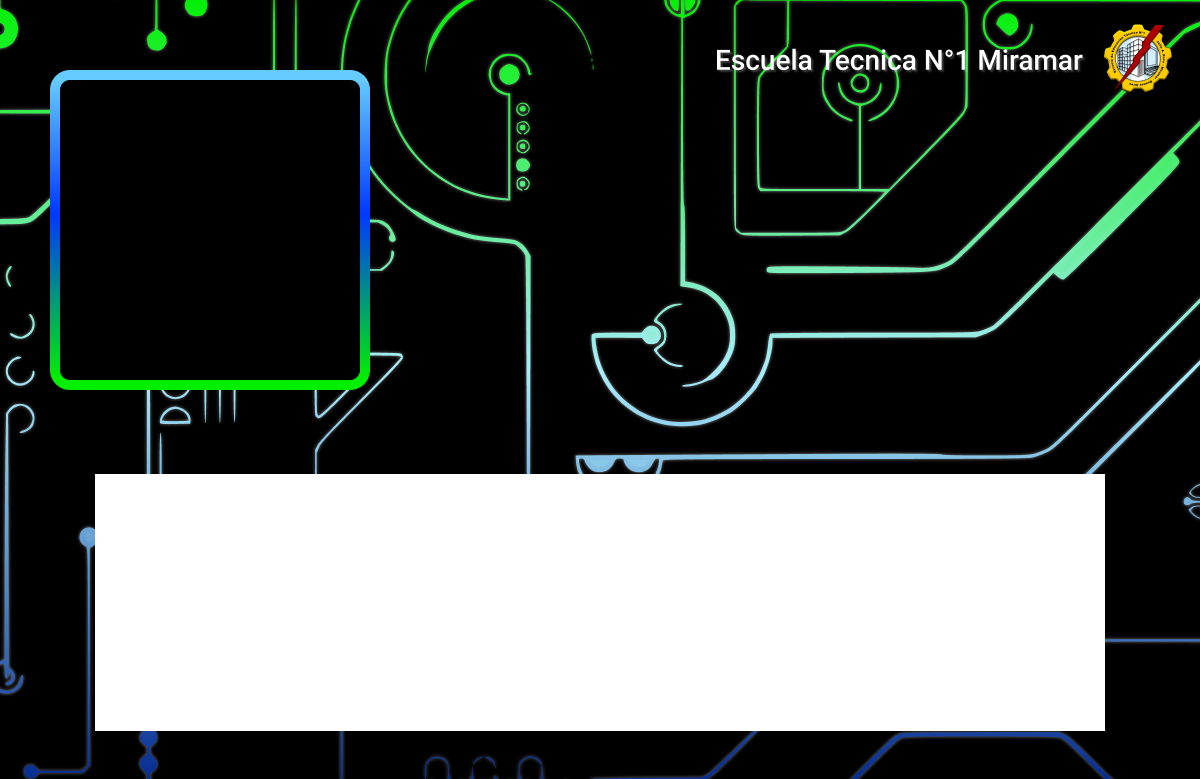
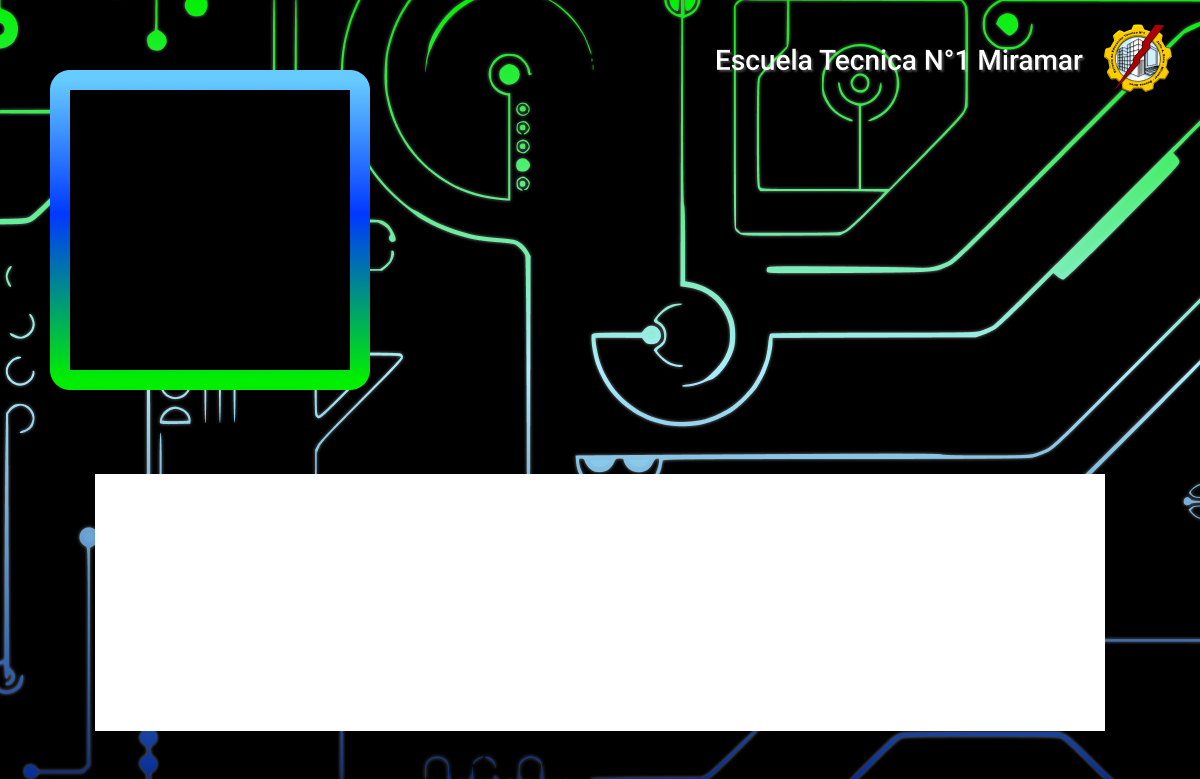
26/07/2022 13:30hs

Changed region(s): [[0.0308, 0.0924, 0.3083, 0.4929]]

diff --git a/src/Components/Elements/ImageLazyLoadCard.tsx b/src/Components/Elements/ImageLazyLoadCard.tsx
@@ -1,8 +1,8 @@
 import React, { PureComponent } from "react";
 import { ImageSourcePropType, StyleProp, StyleSheet, View, ViewStyle } from "react-native";
 import SkeletonPlaceholder from "react-native-skeleton-placeholder";
-import FastImage, { ResizeMode } from "react-native-fast-image";
 import RNFS from "react-native-fs";
+import FastImage from "react-native-fast-image";
 
 type IProps = {
     source: {
@@ -11,7 +11,11 @@ type IProps = {
     style?: StyleProp<ViewStyle>;
     circle?: boolean;
     size?: number;
-    resizeMode?: ResizeMode | undefined; 
+    enableCustomSize?: boolean;
+    customSize?: {
+        width: number;
+        height: number;
+    }
     onLoad?: ()=>any;
 };
 type IState = {
@@ -19,7 +23,7 @@ type IState = {
     source: ImageSourcePropType | undefined;
 };
 
-export default class ImageLazyLoad extends PureComponent<IProps, IState> {
+export default class ImageLazyLoadCard extends PureComponent<IProps, IState> {
     constructor(props: IProps) {
         super(props);
         this.state = {
@@ -38,14 +42,14 @@ export default class ImageLazyLoad extends PureComponent<IProps, IState> {
         .catch(()=>this.setState({ source: require('../../Assets/profile.png'), isLoading: false }));
     }
     render(): React.ReactNode {
-        return(<View style={[{ position: 'relative', overflow: 'hidden' }, { width: this.props.size, height: this.props.size }, this.props.style, (this.props.circle)&&styles.circle]}>
+        return(<View style={[{ position: 'relative', overflow: 'hidden' }, (this.props.enableCustomSize)? this.props.customSize: { width: this.props.size, height: this.props.size }, this.props.style, (this.props.circle)&&styles.circle]}>
             {(this.state.isLoading)?<SkeletonPlaceholder>
                 <SkeletonPlaceholder.Item width={'100%'} height={'100%'} />
             </SkeletonPlaceholder>:
             <FastImage
                 source={this.state.source! as any}
-                style={{ width: '100%', height: '100%' }}
-                resizeMode={this.props.resizeMode}
+                style={(this.props.enableCustomSize)? this.props.customSize: { width: this.props.size, height: this.props.size }}
+                resizeMode={'cover'}
                 onLoad={this.props.onLoad}
                 onError={this.props.onLoad}
             />}
@@ -55,14 +59,6 @@ export default class ImageLazyLoad extends PureComponent<IProps, IState> {
 
 const styles = StyleSheet.create({
     circle: {
-        shadowColor: "#000",
-        shadowOffset:{
-            width: 0,
-            height: 1
-        },
-        shadowOpacity: 0.20,
-        shadowRadius: 1.41,
-        elevation: 2,
         borderRadius: 1000000,
         overflow: 'hidden'
     }

diff --git a/src/Components/Cards/Card2.tsx b/src/Components/Cards/Card2.tsx
@@ -1,7 +1,8 @@
 import Barcode from "@kichiyaki/react-native-barcode-generator";
 import React, { PureComponent } from "react";
-import { Image } from "react-native";
+import FastImage from "react-native-fast-image";
 import { Text } from "react-native-paper";
+import ImageLazyLoadCard from "../Elements/ImageLazyLoadCard";
 
 type IPropsCard = {
     scale: number;
@@ -25,24 +26,22 @@ export default class Card2 extends PureComponent<IPropsCard, IStateCard> {
     }
     render(): React.ReactNode {
         return(<>
-            <Image
+            <FastImage
                 source={require('../../Assets/Desings/card2.png')}
                 style={{ width: '100%', height: '100%', position: 'absolute', top: 0, left: 0 }}
                 resizeMode={'cover'}
-                resizeMethod={'scale'}
             />
-            <Image
+            <ImageLazyLoadCard
                 source={{ uri: this.props.image }}
+                size={this.getScale(308)}
+                circle
                 style={{
                     position: 'absolute',
                     top: this.getScale(246),
-                    left: this.getScale(142),
+                    left: this.getScale(140),
                     overflow: 'hidden',
                     borderWidth: this.getScale(8),
-                    borderColor: '#00A3FF',
-                    borderRadius: this.getScale(308),
-                    width: this.getScale(308),
-                    height: this.getScale(308)
+                    borderColor: '#00A3FF'
                 }}
             />
             <Text

diff --git a/src/Components/Cards/Vip.tsx b/src/Components/Cards/Vip.tsx
@@ -1,7 +1,8 @@
 import Barcode from "@kichiyaki/react-native-barcode-generator";
 import React, { PureComponent } from "react";
-import { Image } from "react-native";
+import FastImage from "react-native-fast-image";
 import { Text } from "react-native-paper";
+import ImageLazyLoadCard from "../Elements/ImageLazyLoadCard";
 
 type IPropsCard = {
     scale: number;
@@ -25,14 +26,14 @@ export default class CardVip extends PureComponent<IPropsCard, IStateCard> {
     }
     render(): React.ReactNode {
         return(<>
-            <Image
+            <FastImage
                 source={require('../../Assets/Desings/vip.png')}
                 style={{ width: '100%', height: '100%', position: 'absolute', top: 0, left: 0 }}
                 resizeMode={'cover'}
-                resizeMethod={'scale'}
             />
-            <Image
+            <ImageLazyLoadCard
                 source={{ uri: this.props.image }}
+                size={this.getScale(300)}
                 style={{
                     position: 'absolute',
                     top: this.getScale(80),
@@ -40,9 +41,7 @@ export default class CardVip extends PureComponent<IPropsCard, IStateCard> {
                     overflow: 'hidden',
                     borderWidth: this.getScale(8),
                     borderColor: '#020202',
-                    borderRadius: this.getScale(16),
-                    width: this.getScale(300),
-                    height: this.getScale(300)
+                    borderRadius: this.getScale(16)
                 }}
             />
             <Text

diff --git a/src/Components/Cards/Card1.tsx b/src/Components/Cards/Card1.tsx
@@ -1,7 +1,8 @@
 import Barcode from "@kichiyaki/react-native-barcode-generator";
 import React, { PureComponent } from "react";
-import { Image } from "react-native";
+import FastImage from "react-native-fast-image";
 import { Text } from "react-native-paper";
+import ImageLazyLoadCard from "../Elements/ImageLazyLoadCard";
 
 type IPropsCard = {
     scale: number;
@@ -19,14 +20,14 @@ export default class Card1 extends PureComponent<IPropsCard> {
     }
     render(): React.ReactNode {
         return(<>
-            <Image
+            <FastImage
                 source={require('../../Assets/Desings/card1.png')}
                 style={{ width: '100%', height: '100%', position: 'absolute', top: 0, left: 0 }}
                 resizeMode={'cover'}
-                resizeMethod={'scale'}
             />
-            <Image
+            <ImageLazyLoadCard
                 source={{ uri: this.props.image }}
+                size={this.getScale(300)}
                 style={{
                     position: 'absolute',
                     top: this.getScale(80),
@@ -34,9 +35,7 @@ export default class Card1 extends PureComponent<IPropsCard> {
                     overflow: 'hidden',
                     borderWidth: this.getScale(8),
                     borderColor: '#FF2E2E',
-                    borderRadius: this.getScale(16),
-                    width: this.getScale(300),
-                    height: this.getScale(300)
+                    borderRadius: this.getScale(16)
                 }}
             />
             <Text

diff --git a/src/Components/Cards/Card3.tsx b/src/Components/Cards/Card3.tsx
@@ -1,7 +1,8 @@
 import Barcode from "@kichiyaki/react-native-barcode-generator";
 import React, { PureComponent } from "react";
-import { Image } from "react-native";
+import FastImage from "react-native-fast-image";
 import { Text } from "react-native-paper";
+import ImageLazyLoadCard from "../Elements/ImageLazyLoadCard";
 
 type IPropsCard = {
     scale: number;
@@ -19,14 +20,14 @@ export default class Card3 extends PureComponent<IPropsCard> {
     }
     render(): React.ReactNode {
         return(<>
-            <Image
+            <FastImage
                 source={require('../../Assets/Desings/card3.png')}
                 style={{ width: '100%', height: '100%', position: 'absolute', top: 0, left: 0 }}
                 resizeMode={'cover'}
-                resizeMethod={'scale'}
             />
-            <Image
+            <ImageLazyLoadCard
                 source={{ uri: this.props.image }}
+                size={this.getScale(300)}
                 style={{
                     position: 'absolute',
                     top: this.getScale(80),
@@ -34,9 +35,7 @@ export default class Card3 extends PureComponent<IPropsCard> {
                     overflow: 'hidden',
                     borderWidth: this.getScale(8),
                     borderColor: '#FF2E2E',
-                    borderRadius: this.getScale(16),
-                    width: this.getScale(300),
-                    height: this.getScale(300)
+                    borderRadius: this.getScale(16)
                 }}
             />
             <Text

diff --git a/src/Components/Cards/Card4.tsx b/src/Components/Cards/Card4.tsx
@@ -1,7 +1,8 @@
 import Barcode from "@kichiyaki/react-native-barcode-generator";
 import React, { PureComponent } from "react";
-import { Image } from "react-native";
+import FastImage from "react-native-fast-image";
 import { Text } from "react-native-paper";
+import ImageLazyLoadCard from "../Elements/ImageLazyLoadCard";
 
 type IPropsCard = {
     scale: number;
@@ -19,14 +20,14 @@ export default class Card3 extends PureComponent<IPropsCard> {
     }
     render(): React.ReactNode {
         return(<>
-            <Image
+            <FastImage
                 source={require('../../Assets/Desings/card4.png')}
                 style={{ width: '100%', height: '100%', position: 'absolute', top: 0, left: 0 }}
                 resizeMode={'cover'}
-                resizeMethod={'scale'}
             />
-            <Image
+            <ImageLazyLoadCard
                 source={{ uri: this.props.image }}
+                size={this.getScale(300)}
                 style={{
                     position: 'absolute',
                     top: this.getScale(80),
@@ -34,9 +35,7 @@ export default class Card3 extends PureComponent<IPropsCard> {
                     overflow: 'hidden',
                     borderWidth: this.getScale(8),
                     borderColor: '#FF2E2E',
-                    borderRadius: this.getScale(16),
-                    width: this.getScale(300),
-                    height: this.getScale(300)
+                    borderRadius: this.getScale(16)
                 }}
             />
             <Text

diff --git a/src/Components/Cards/Card5.tsx b/src/Components/Cards/Card5.tsx
@@ -1,7 +1,8 @@
 import Barcode from "@kichiyaki/react-native-barcode-generator";
 import React, { PureComponent } from "react";
-import { Image } from "react-native";
+import FastImage from "react-native-fast-image";
 import { Text } from "react-native-paper";
+import ImageLazyLoadCard from "../Elements/ImageLazyLoadCard";
 
 type IPropsCard = {
     scale: number;
@@ -25,22 +26,20 @@ export default class Card5 extends PureComponent<IPropsCard, IStateCard> {
     }
     render(): React.ReactNode {
         return(<>
-            <Image
+            <FastImage
                 source={require('../../Assets/Desings/card5.png')}
                 style={{ width: '100%', height: '100%', position: 'absolute', top: 0, left: 0 }}
                 resizeMode={'cover'}
-                resizeMethod={'scale'}
             />
-            <Image
+            <ImageLazyLoadCard
                 source={{ uri: this.props.image }}
+                size={this.getScale(300)}
                 style={{
                     position: 'absolute',
-                    top: this.getScale(80),
-                    left: this.getScale(48),
+                    top: this.getScale(85),
+                    left: this.getScale(51),
                     overflow: 'hidden',
-                    borderRadius: this.getScale(14),
-                    width: this.getScale(308),
-                    height: this.getScale(312)
+                    borderRadius: this.getScale(14)
                 }}
             />
             <Text

diff --git a/src/Components/Cards/Default.tsx b/src/Components/Cards/Default.tsx
@@ -1,7 +1,8 @@
 import Barcode from "@kichiyaki/react-native-barcode-generator";
 import React, { PureComponent } from "react";
-import { Image } from "react-native";
+import FastImage from "react-native-fast-image";
 import { Text } from "react-native-paper";
+import ImageLazyLoadCard from "../Elements/ImageLazyLoadCard";
 
 type IPropsCard = {
     scale: number;
@@ -25,14 +26,14 @@ export default class DesingDefault extends PureComponent<IPropsCard, IStateCard>
     }
     render(): React.ReactNode {
         return(<>
-            <Image
+            <FastImage
                 source={require('../../Assets/Desings/default.png')}
                 style={{ width: '100%', height: '100%', position: 'absolute', top: 0, left: 0 }}
                 resizeMode={'cover'}
-                resizeMethod={'scale'}
             />
-            <Image
+            <ImageLazyLoadCard
                 source={{ uri: this.props.image }}
+                size={this.getScale(300)}
                 style={{
                     position: 'absolute',
                     top: this.getScale(80),
@@ -41,8 +42,6 @@ export default class DesingDefault extends PureComponent<IPropsCard, IStateCard>
                     borderWidth: this.getScale(8),
                     borderColor: '#0038FF',
                     borderRadius: this.getScale(16),
-                    width: this.getScale(300),
-                    height: this.getScale(300)
                 }}
             />
             <Text

diff --git a/src/Pages/GenerateMultipleCards.tsx b/src/Pages/GenerateMultipleCards.tsx
@@ -1,13 +1,13 @@
 import { decode } from "base-64";
 import React, { Component, PureComponent } from "react";
 import { Dimensions, FlatList, ListRenderItemInfo, PermissionsAndroid, StyleSheet, View } from "react-native";
-import { Text, Appbar, FAB, Snackbar, Divider, ActivityIndicator } from "react-native-paper";
+import { Text, Appbar, Snackbar, Divider, ActivityIndicator } from "react-native-paper";
 import ViewShot, { captureRef } from "react-native-view-shot";
 import RNFS from "react-native-fs";
 import CustomCredential from "../Components/CustomCredential";
 import CustomModal from "../Components/CustomModal";
 import { urlBase } from "../Scripts/ApiTecnica";
-import { OrderCurses, StudentsData } from "../Scripts/ApiTecnica/types";
+import { StudentsData } from "../Scripts/ApiTecnica/types";
 import Icon from "react-native-vector-icons/MaterialCommunityIcons";
 import Theme from "../Themes";
 

diff --git a/src/Pages/ViewAssist.tsx b/src/Pages/ViewAssist.tsx
@@ -1,7 +1,7 @@
 import { decode } from "base-64";
 import React, { Component, ReactNode } from "react";
-import { DeviceEventEmitter, EmitterSubscription, FlatList, Linking, ListRenderItemInfo, PermissionsAndroid, Pressable, ToastAndroid, View } from "react-native";
-import { Button, Appbar, Avatar, Colors, Dialog, Divider, FAB, List, Paragraph, Portal, Provider as PaperProvider } from "react-native-paper";
+import { DeviceEventEmitter, EmitterSubscription, FlatList, ListRenderItemInfo, PermissionsAndroid, Pressable, ToastAndroid, View } from "react-native";
+import { Button, Appbar, Colors, Dialog, Divider, FAB, List, Paragraph, Portal, Provider as PaperProvider } from "react-native-paper";
 import FileViewer from "react-native-file-viewer";
 import CustomModal from "../Components/CustomModal";
 import { Annotation, Assist, GeneratePDF, urlBase } from "../Scripts/ApiTecnica";

diff --git a/src/Pages/ConfirmAssist.tsx b/src/Pages/ConfirmAssist.tsx
@@ -1,7 +1,7 @@
 import { decode } from "base-64";
 import React, { Component, ReactNode } from "react";
 import { DeviceEventEmitter, FlatList, ListRenderItemInfo, Pressable, ToastAndroid, View } from "react-native";
-import { Appbar, Avatar, Button, Checkbox, Colors, Dialog, Divider, FAB, List, Menu, Paragraph, Portal, Provider as PaperProvider, Text } from "react-native-paper";
+import { Appbar, Button, Checkbox, Colors, Dialog, Divider, FAB, List, Menu, Paragraph, Portal, Provider as PaperProvider, Text } from "react-native-paper";
 import Icon from "react-native-vector-icons/MaterialCommunityIcons";
 import CustomModal from "../Components/CustomModal";
 import ImageLazyLoad from "../Components/Elements/ImageLazyLoad";

diff --git a/src/Pages/ViewDetails.tsx b/src/Pages/ViewDetails.tsx
@@ -1,7 +1,7 @@
 import { decode } from "base-64";
 import moment from "moment";
 import React, { Component, PureComponent } from "react";
-import { Dimensions, Image, Linking, PermissionsAndroid, ScrollView, StyleSheet, ToastAndroid, TouchableHighlight, View } from "react-native";
+import { Dimensions, Linking, PermissionsAndroid, ScrollView, StyleSheet, ToastAndroid, TouchableHighlight, View } from "react-native";
 import { Appbar, Button, Card, IconButton, ProgressBar, Provider as PaperProvider, Snackbar, Text } from "react-native-paper";
 import ViewShot, { captureRef } from "react-native-view-shot";
 import CustomCredential from "../Components/CustomCredential";
